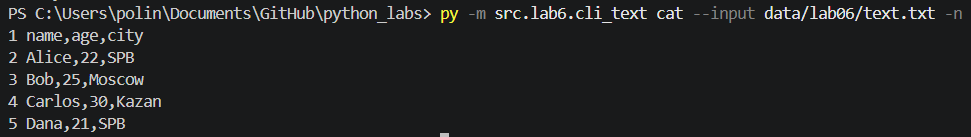
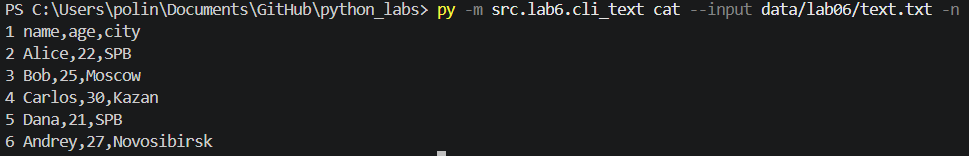
6

diff --git a/src/lab6/cli_text.py b/src/lab6/cli_text.py
@@ -22,7 +22,7 @@ def main():
         except FileNotFoundError:
             parser.error('Файл пуст или не найден')
         if args.n:
-            for cnt in range(1, len(rows)):
+            for cnt in range(1, len(rows) + 1):
                 print(f'{cnt} {rows[cnt - 1]}')
         else:
             for row in rows: print(row)

diff --git a/src/lab6/README.md b/src/lab6/README.md
@@ -27,7 +27,7 @@ def main():
         except FileNotFoundError:
             parser.error('Файл пуст или не найден')
         if args.n:
-            for cnt in range(1, len(rows)):
+            for cnt in range(1, len(rows) + 1):
                 print(f'{cnt} {rows[cnt - 1]}')
         else:
             for row in rows: print(row)
